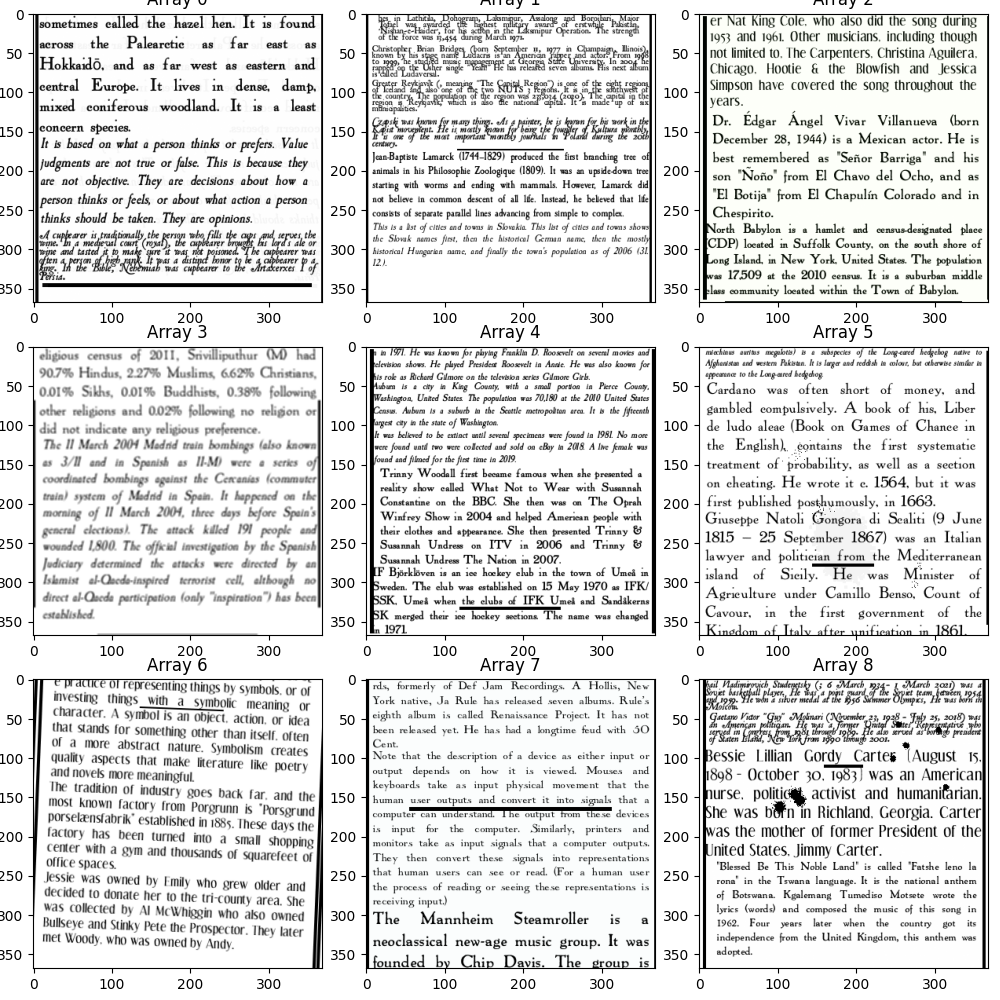
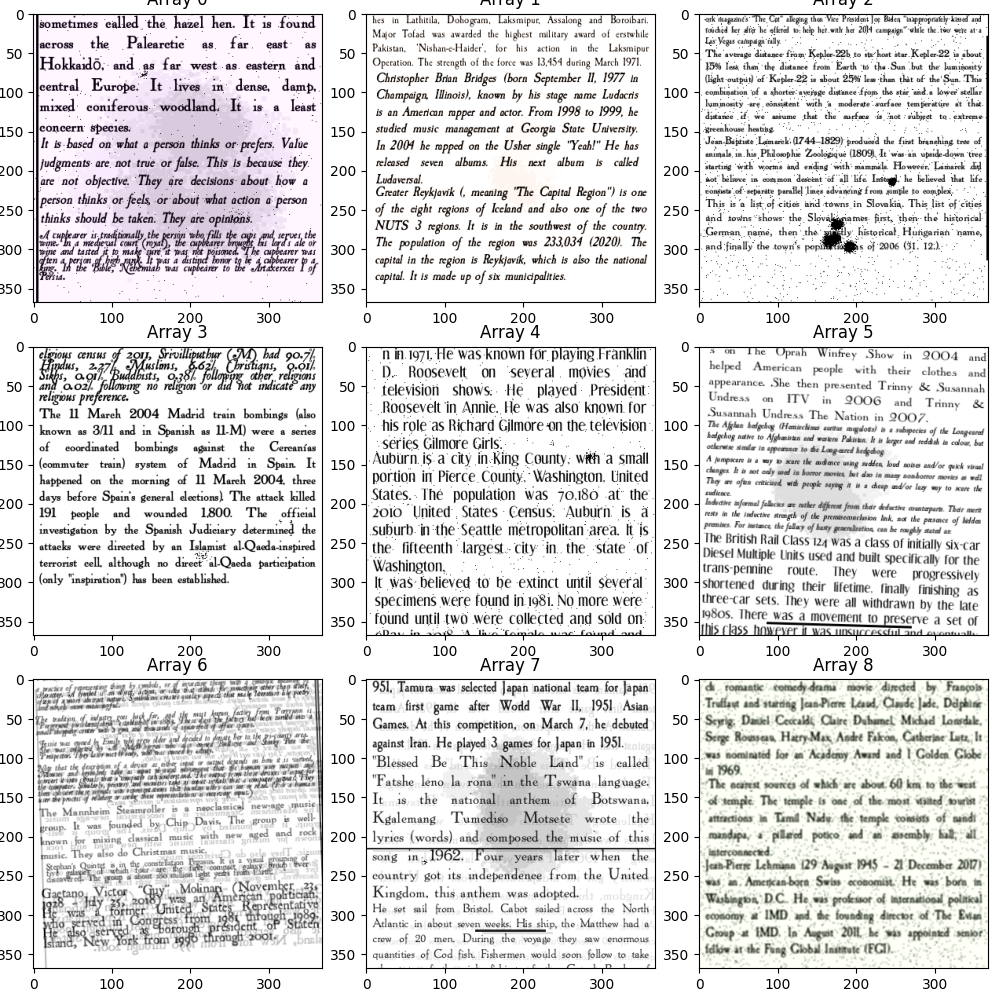
Fixed bug regarding color jitter

diff --git a/dataset_transformations.py b/dataset_transformations.py
@@ -88,15 +88,16 @@ class SyntheticDatasetTransform(object):
         """
         num_lines = self.rng.randint(1, 3)
         empty_lines = np.arange(image.shape[0])[np.all(image == 255, axis=1)]
-        
+
         for line in range(num_lines):
-        
             if empty_lines.shape[0] == 0:
                 return image
-            
+
             line_width = self.rng.randint(2, self.args.random_line_max_width)
             if self.rng.rand() < 0.5:
-                line_length = self.rng.randint(self.args.random_horisontal_line_length_min, image.shape[0])
+                line_length = self.rng.randint(
+                    self.args.random_horisontal_line_length_min, image.shape[0]
+                )
                 line_start = (image.shape[1] - line_length) // 2
             else:
                 line_length = image.shape[0]
@@ -106,7 +107,7 @@ class SyntheticDatasetTransform(object):
             image[
                 line_loc : line_loc + line_width, line_start : line_start + line_length
             ] = 0.0
-            
+
             empty_lines = empty_lines[
                 ~np.isin(empty_lines, np.arange(line_loc, line_loc + line_width))
             ]
@@ -117,14 +118,16 @@ class SyntheticDatasetTransform(object):
         Add a random vertical line to the image.
         """
         line_width = self.rng.randint(2, self.args.random_line_max_width)
-        
+
         if self.rng.rand() < 0.5:
-            line_length = self.rng.randint(self.args.random_line_length_min, image.shape[1])
+            line_length = self.rng.randint(
+                self.args.random_line_length_min, image.shape[1]
+            )
             line_start = self.rng.randint(0, image.shape[1] - line_length)
         else:
             line_length = image.shape[1]
             line_start = 0
-            
+
         empty_lines = np.arange(image.shape[1])[np.all(image == 255, axis=0)]
         empty_lines = empty_lines[
             (empty_lines < self.args.max_margins[0] - line_width)
@@ -264,7 +267,7 @@ class SyntheticDatasetTransform(object):
         """
         noise = self.rng.normal(0, self.args.channel_noise_std * 255, size=(1, 1, 3))
         image = image + noise
-        image = np.clip(image, 0, 255).astype("float32")
+        image = np.clip(image, 0, 255).astype("uint8")
         return image
 
     def __call__(self, image: np.ndarray) -> np.ndarray:
